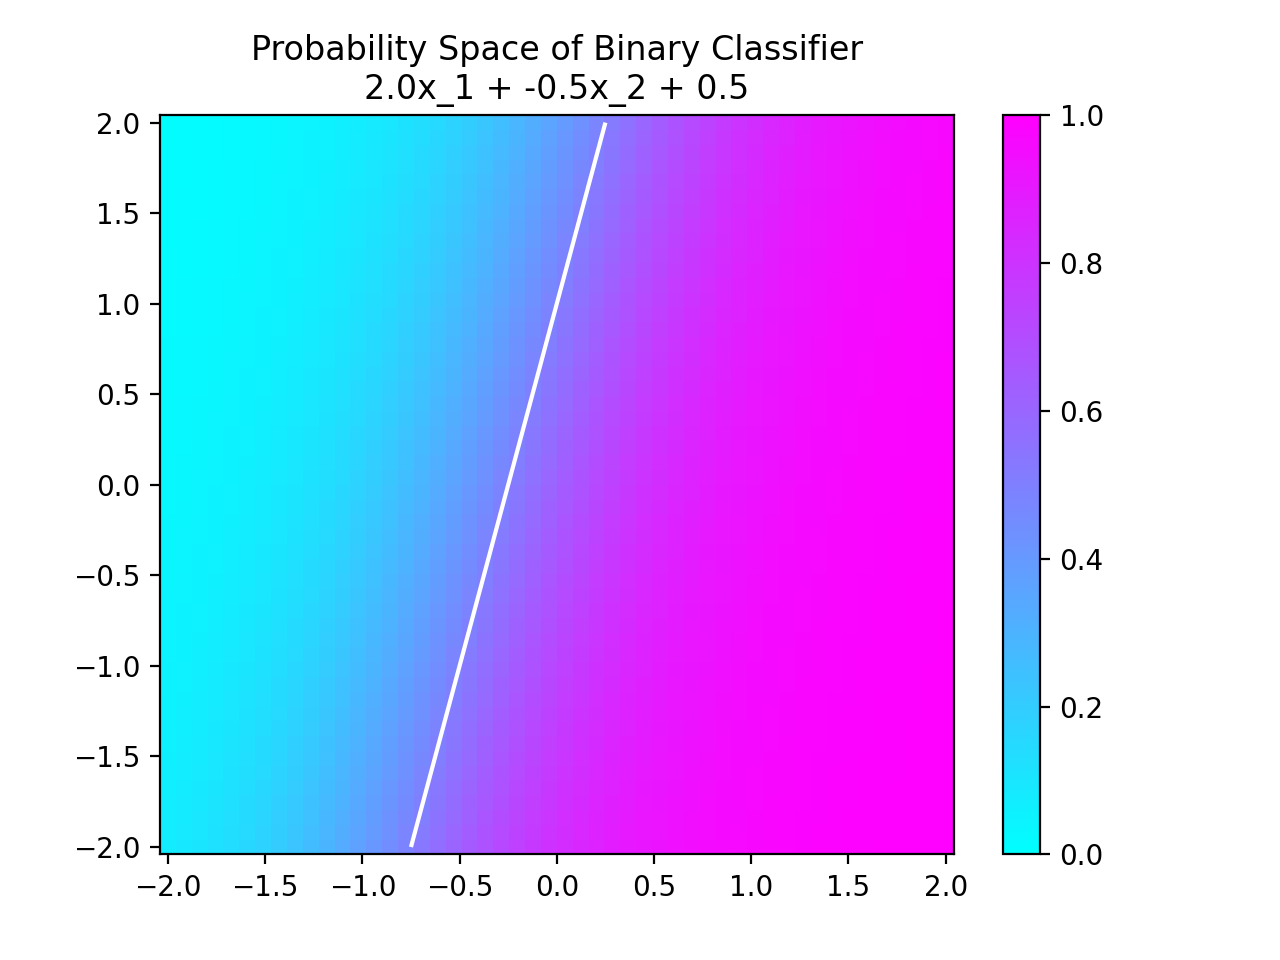
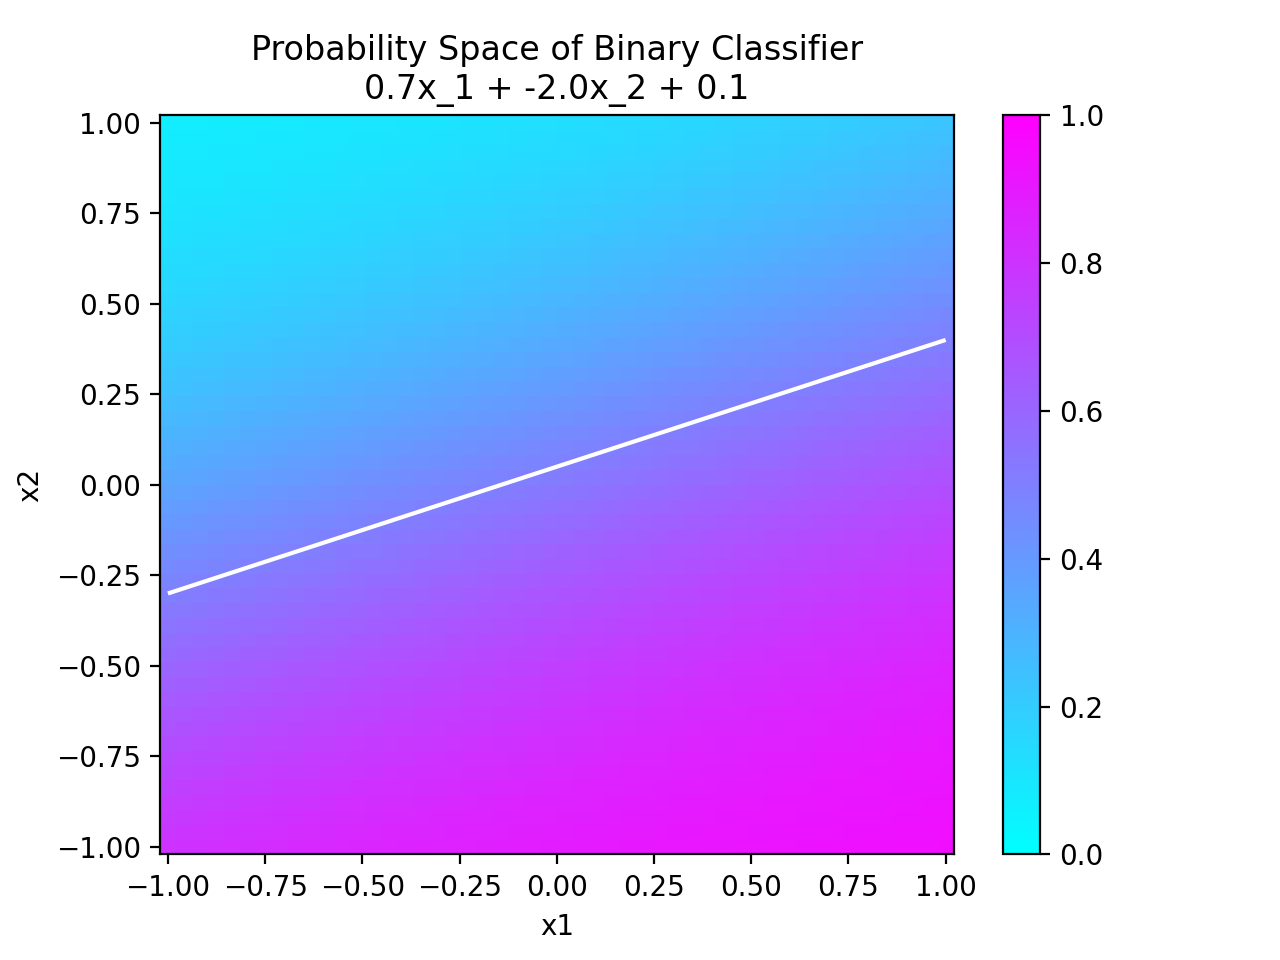
updated axes

diff --git a/visualizer.py b/visualizer.py
@@ -56,6 +56,9 @@ def plot_binary_probability_space(binary_model: argparse.Namespace, resolution: 
     plt.pcolormesh(X1, X2, Z, cmap='cool', vmin=0, vmax=1, shading='auto')
     plt.colorbar()
 
+    plt.xlabel('x1')
+    plt.ylabel('x2')
+
     # plot line of separation
     plt.contour(X1, X2, Z, levels=[0.5], colors='white')
     model_eq = f"{binary_model.weights[0]}x_1 + {binary_model.weights[1]}x_2 + {binary_model.weights[2]}"
